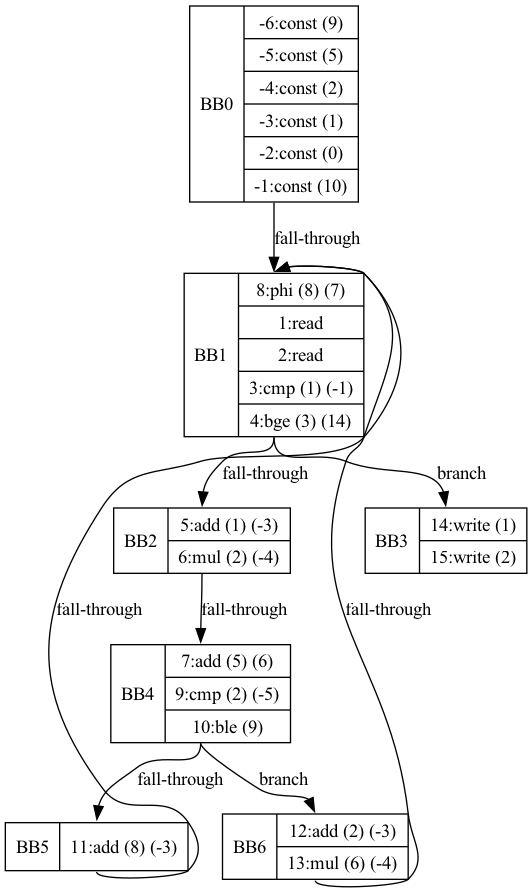
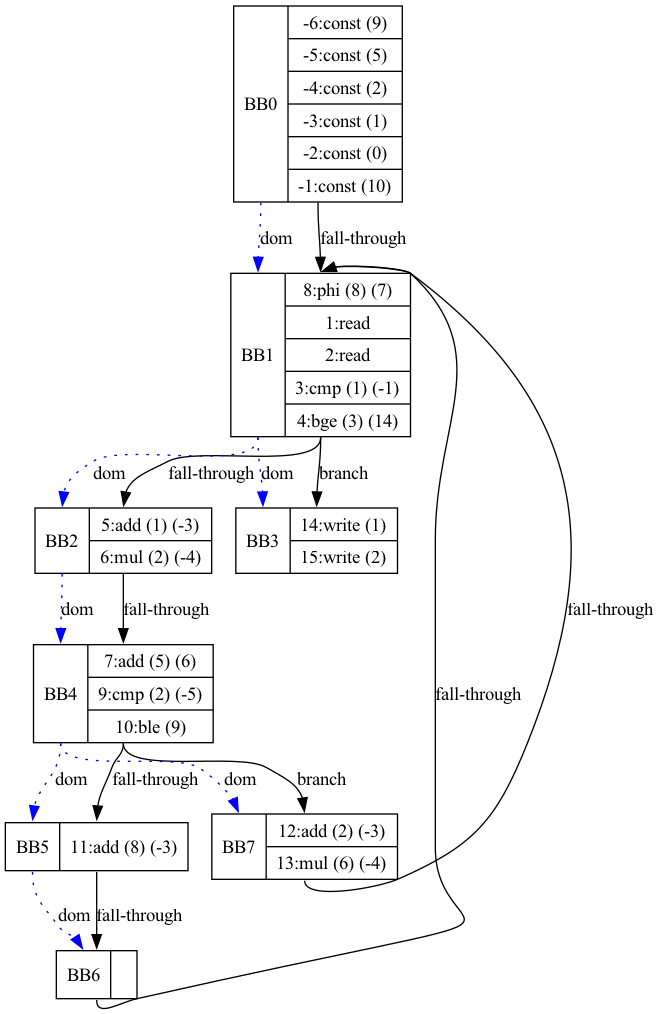
todo - add [join] blk no matter what o.O [p2_ifStatement()]...issue lies in [p2_ifStatement()::hasChild && pointers]

diff --git a/src/Parser.cpp b/src/Parser.cpp
@@ -580,6 +580,7 @@ SSA* Parser::p2_assignment() {
     return value;
 }
 
+
 // ToDo: after generating the Dot & graph the first time
 SSA* Parser::p_funcCall() {
     SSA *res = nullptr;
@@ -853,7 +854,6 @@ SSA* Parser::p2_funcCall() {
         // func->child = this->currBB;
     }
 
-
     #ifdef DEBUG
         std::cout << "\t[Parser::p_funcCall()] returning res: " << res->toString() << std::endl;
     #endif
@@ -960,26 +960,32 @@ SSA* Parser::p2_ifStatement() {
     this->currBB = this->currBB->child;
 
     BasicBlock *join_blk = nullptr;
+    join_blk = new BasicBlock(this->currBB->varVals);
 
     // [11.04.2024]: new; note - [then_blk->child = (old) if_parent->child]
     if (!hasChild) {
         // [10.24.2024]: ?
-        join_blk = new BasicBlock(this->currBB->varVals);
         #ifdef DEBUG
             std::cout << "created new BB (join), looks like: " << std::endl << join_blk->toString() << std::endl;
         #endif
-        then_blk->child2 = join_blk;
+        then_blk->child = join_blk;
         join_blk->parent = then_blk;
     } else {
         #ifdef DEBUG
             std::cout << "using existing child (4join): " << std::endl << og_child->toString() << std::endl;
         #endif
-        then_blk->child2 = og_child;
+        then_blk->child = join_blk;
+        join_blk->parent = then_blk;
+        join_blk->child2 = og_child;
+        // og_child->parent2 = join_blk;
+        if_parent->child2 = join_blk;
+
+        // then_blk->child2 = og_child;
 
         if (og_child->parent == if_parent) {
-            og_child->parent = then_blk;
+            og_child->parent = join_blk;
         } else if (og_child->parent2 == if_parent) {
-            og_child->parent2 = then_blk;
+            og_child->parent2 = join_blk;
         }
     }
 
@@ -998,14 +1004,16 @@ SSA* Parser::p2_ifStatement() {
         this->prevJump = true;
         this->prevInstrs.push(jmp_instr); // [10/10/2024]: push at the end so next added SSA-instr will be set as the jump-location
 
-        if (!hasChild) {
+        // [11.08.2024]: shouldn't need condition here cause we handle above, right?
+        // if (!hasChild) {
             if_parent->child2 = join_blk;
             join_blk->parent2 = if_parent;
-            this->currBB = join_blk; // [10.24.2024]: same as [this->currBB = this->currBB->child;]?
-        } else {
-            if_parent->child2 = og_child;
-            this->currBB = og_child;
-        }
+        // } else {
+        //     if_parent->child2 = join_blk;
+        //     join_blk->parent2 = if_parent;
+        //     join_blk->child2 = og_child;
+        // }
+        this->currBB = join_blk;
 
         #ifdef DEBUG
             std::cout << "after if1 statSeq(), [if_parent->child2] looks like: " << std::endl;
@@ -1036,13 +1044,11 @@ SSA* Parser::p2_ifStatement() {
     if_parent->child2 = else_blk;
     else_blk->parent = if_parent;
     
-    if (!hasChild) {
-        else_blk->child2 = join_blk;
+    // [11.08.2024]: shouldn't need condition here cause we handle above, right?
+    // if (!hasChild) {
+        else_blk->child = join_blk;
         join_blk->parent2 = else_blk;
-    } else {
-        else_blk->child2 = og_child;
-        og_child->parent2 = else_blk;
-    }
+    // }
 
     this->currBB = else_blk; // [10/14/2024]: again, similar to above we assume [p2_statSeq()] manipulates [this->currBB]
 

diff --git a/src/Parser.hpp b/src/Parser.hpp
@@ -560,7 +560,7 @@ public:
     inline std::string generateBlocks(BasicBlock *curr, std::string res, std::vector<BasicBlock *>blocksSeen) {
         blocksSeen.push_back(curr);
 
-        res += "\tbb" + std::to_string(curr->blockNum) + " [shape=record, label=\"" + curr->toDOT() + "\"];\n";
+        res += "\tbb" + std::to_string(curr->blockNum) + " [shape=record, label=\"<b>" + curr->toDOT() + "\"];\n";
         #ifdef DEBUG
             std::cout << "updated res: " << res << std::endl << std::endl;
         #endif
@@ -665,21 +665,16 @@ public:
                 continue;
             }
 
-            if (curr->child) {
-                res += "\tbb" + std::to_string(curr->blockNum) +  ":s -> bb" + std::to_string(curr->child->blockNum) + ":n [label=\"fall-through\"];\n";
+            // if we haven't seen the child before indicates this blk [dom] the child
+            if (curr->child && (std::find(seen.begin(), seen.end(), curr->child) == seen.end())) {
+                res += "\tbb" + std::to_string(curr->blockNum) +  ":b -> bb" + std::to_string(curr->child->blockNum) + ":b [color=blue, style=dotted, label=\"dom\"];\n";
                 tmp.push(curr->child);
                 #ifdef DEBUG
                     std::cout << "pushed child [" << std::to_string(curr->child->blockNum) << "] onto tmp" << std::endl << curr->child->toString() << std::endl;
                 #endif
             }
-            if (curr->child2) {
-                res += "\tbb" + std::to_string(curr->blockNum) +  ":s -> bb" + std::to_string(curr->child2->blockNum) + ":n";
-
-                if (curr->child) {
-                    res += "[label=\"branch\"];\n";
-                } else { // gets called when we have an if-statement without anything after it in a [statSeq]
-                    res += "[label=\"fall-through\"];\n";
-                }
+            if (curr->child2 && (std::find(seen.begin(), seen.end(), curr->child2) == seen.end())) {
+                res += "\tbb" + std::to_string(curr->blockNum) +  ":b -> bb" + std::to_string(curr->child2->blockNum) + ":b [color=blue, style=dotted, label=\"dom\"];\n";
                 tmp.push(curr->child2);
                 #ifdef DEBUG
                     std::cout << "pushed child2 [" << std::to_string(curr->child2->blockNum) << "] onto tmp" << std::endl;

diff --git a/src/BasicBlock.cpp b/src/BasicBlock.cpp
@@ -106,14 +106,15 @@ std::string BasicBlock::toDOT() const {
             res += curr->instr->toDOT() + "|";
             curr = curr->prev;
         }
+        res.pop_back();
     } else {
         for (const auto &node : this->newInstrs) {
             if (node->instr->get_constVal() == nullptr) {
                 res += node->instr->toDOT() + "|";
             }
         }
+        res.pop_back();
     }
-    res.pop_back();
     res += "}";
 
 
